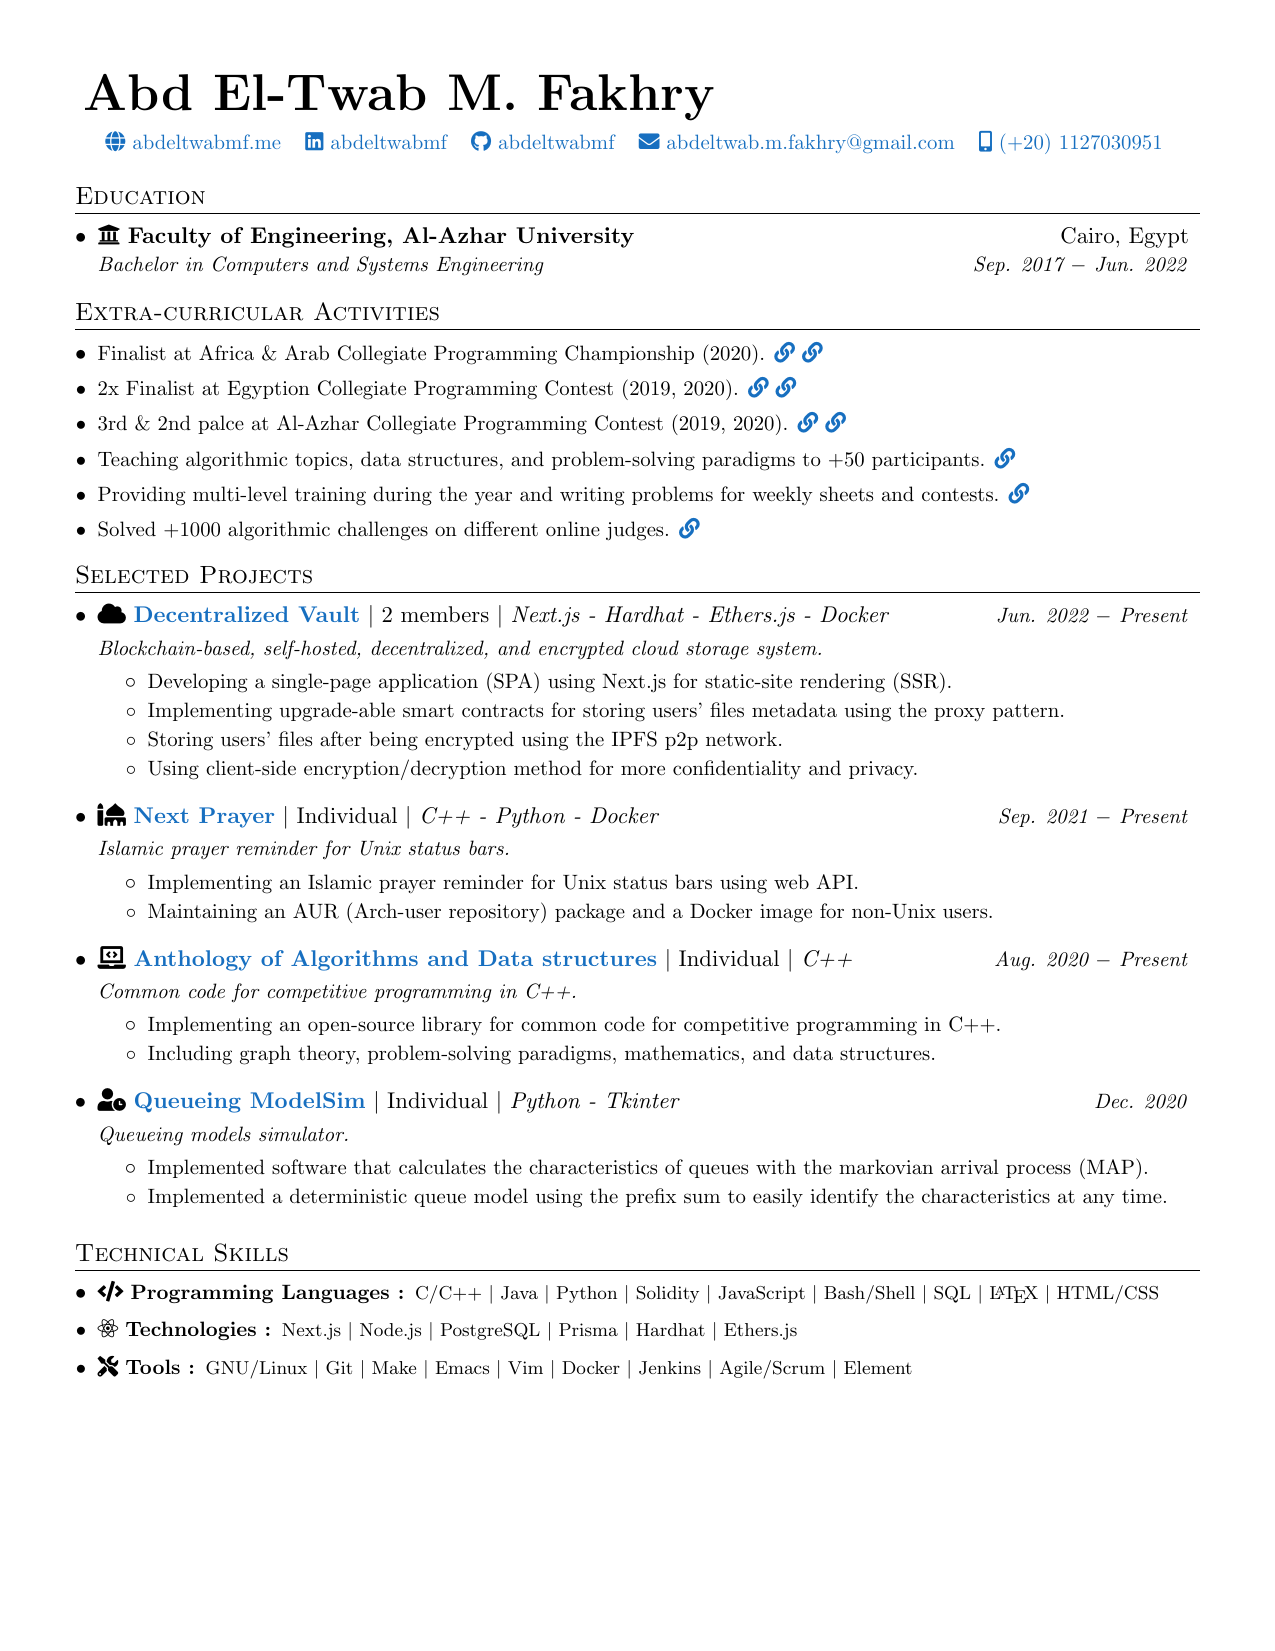
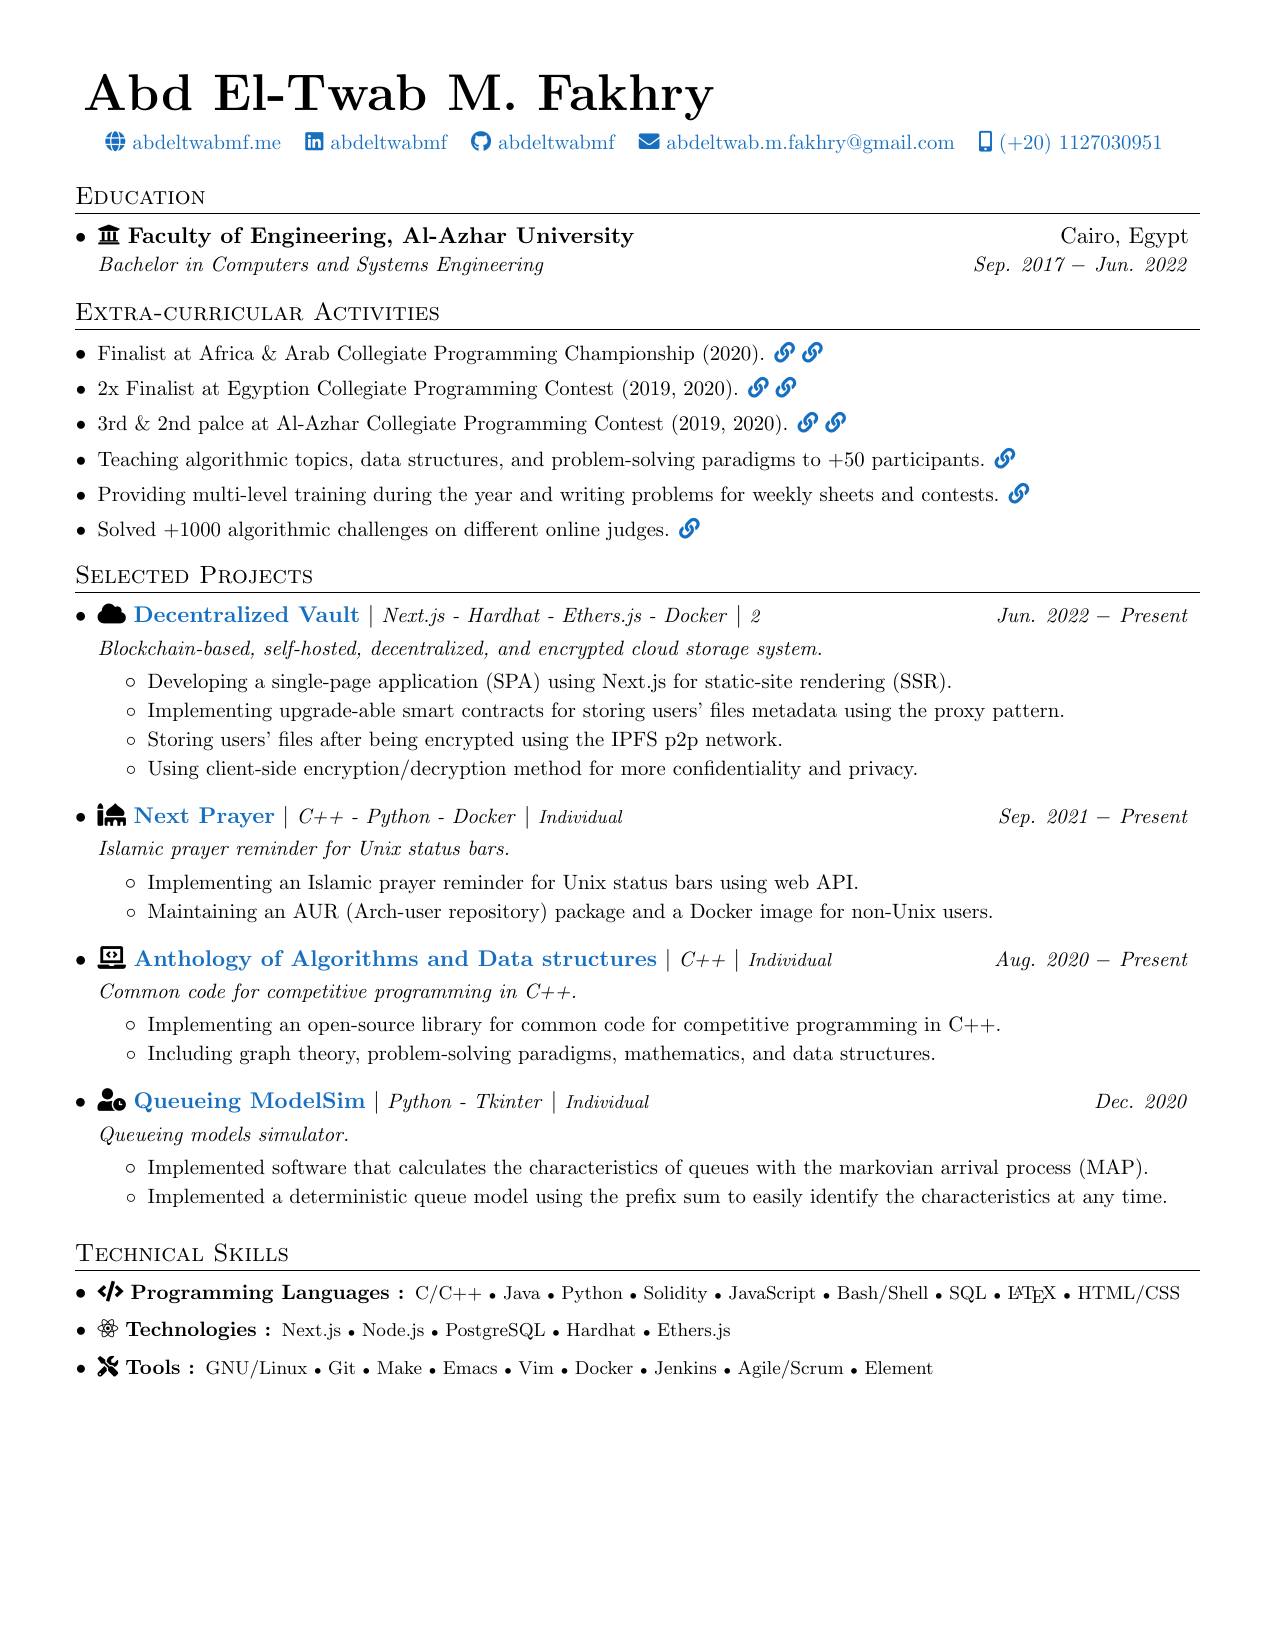
Fix pip separator

diff --git a/abdeltwabmf_resume.tex b/abdeltwabmf_resume.tex
@@ -78,7 +78,8 @@
 \newcommand{\project}[7] {
   \vspace{-1pt}\item
   \begin{tabular*}{0.97\textwidth}[t]{ll@{\extracolsep{\fill}}r}
-    #1 \href{#4}{\textbf{\color{RoyalBlue}#2}} \textbar{} #7 \textbar{ } & \textit{#5} & \textit{\small #3} \\
+    #1 \href{#4}{\textbf{\color{RoyalBlue}#2}}
+    \textbar{} \textit{\small#5} \textbar{ } & \textit{\footnotesize#7} & \textit{\small #3} \\
     \vspace{-10pt}
   \end{tabular*}
   \textit{\small #6}
